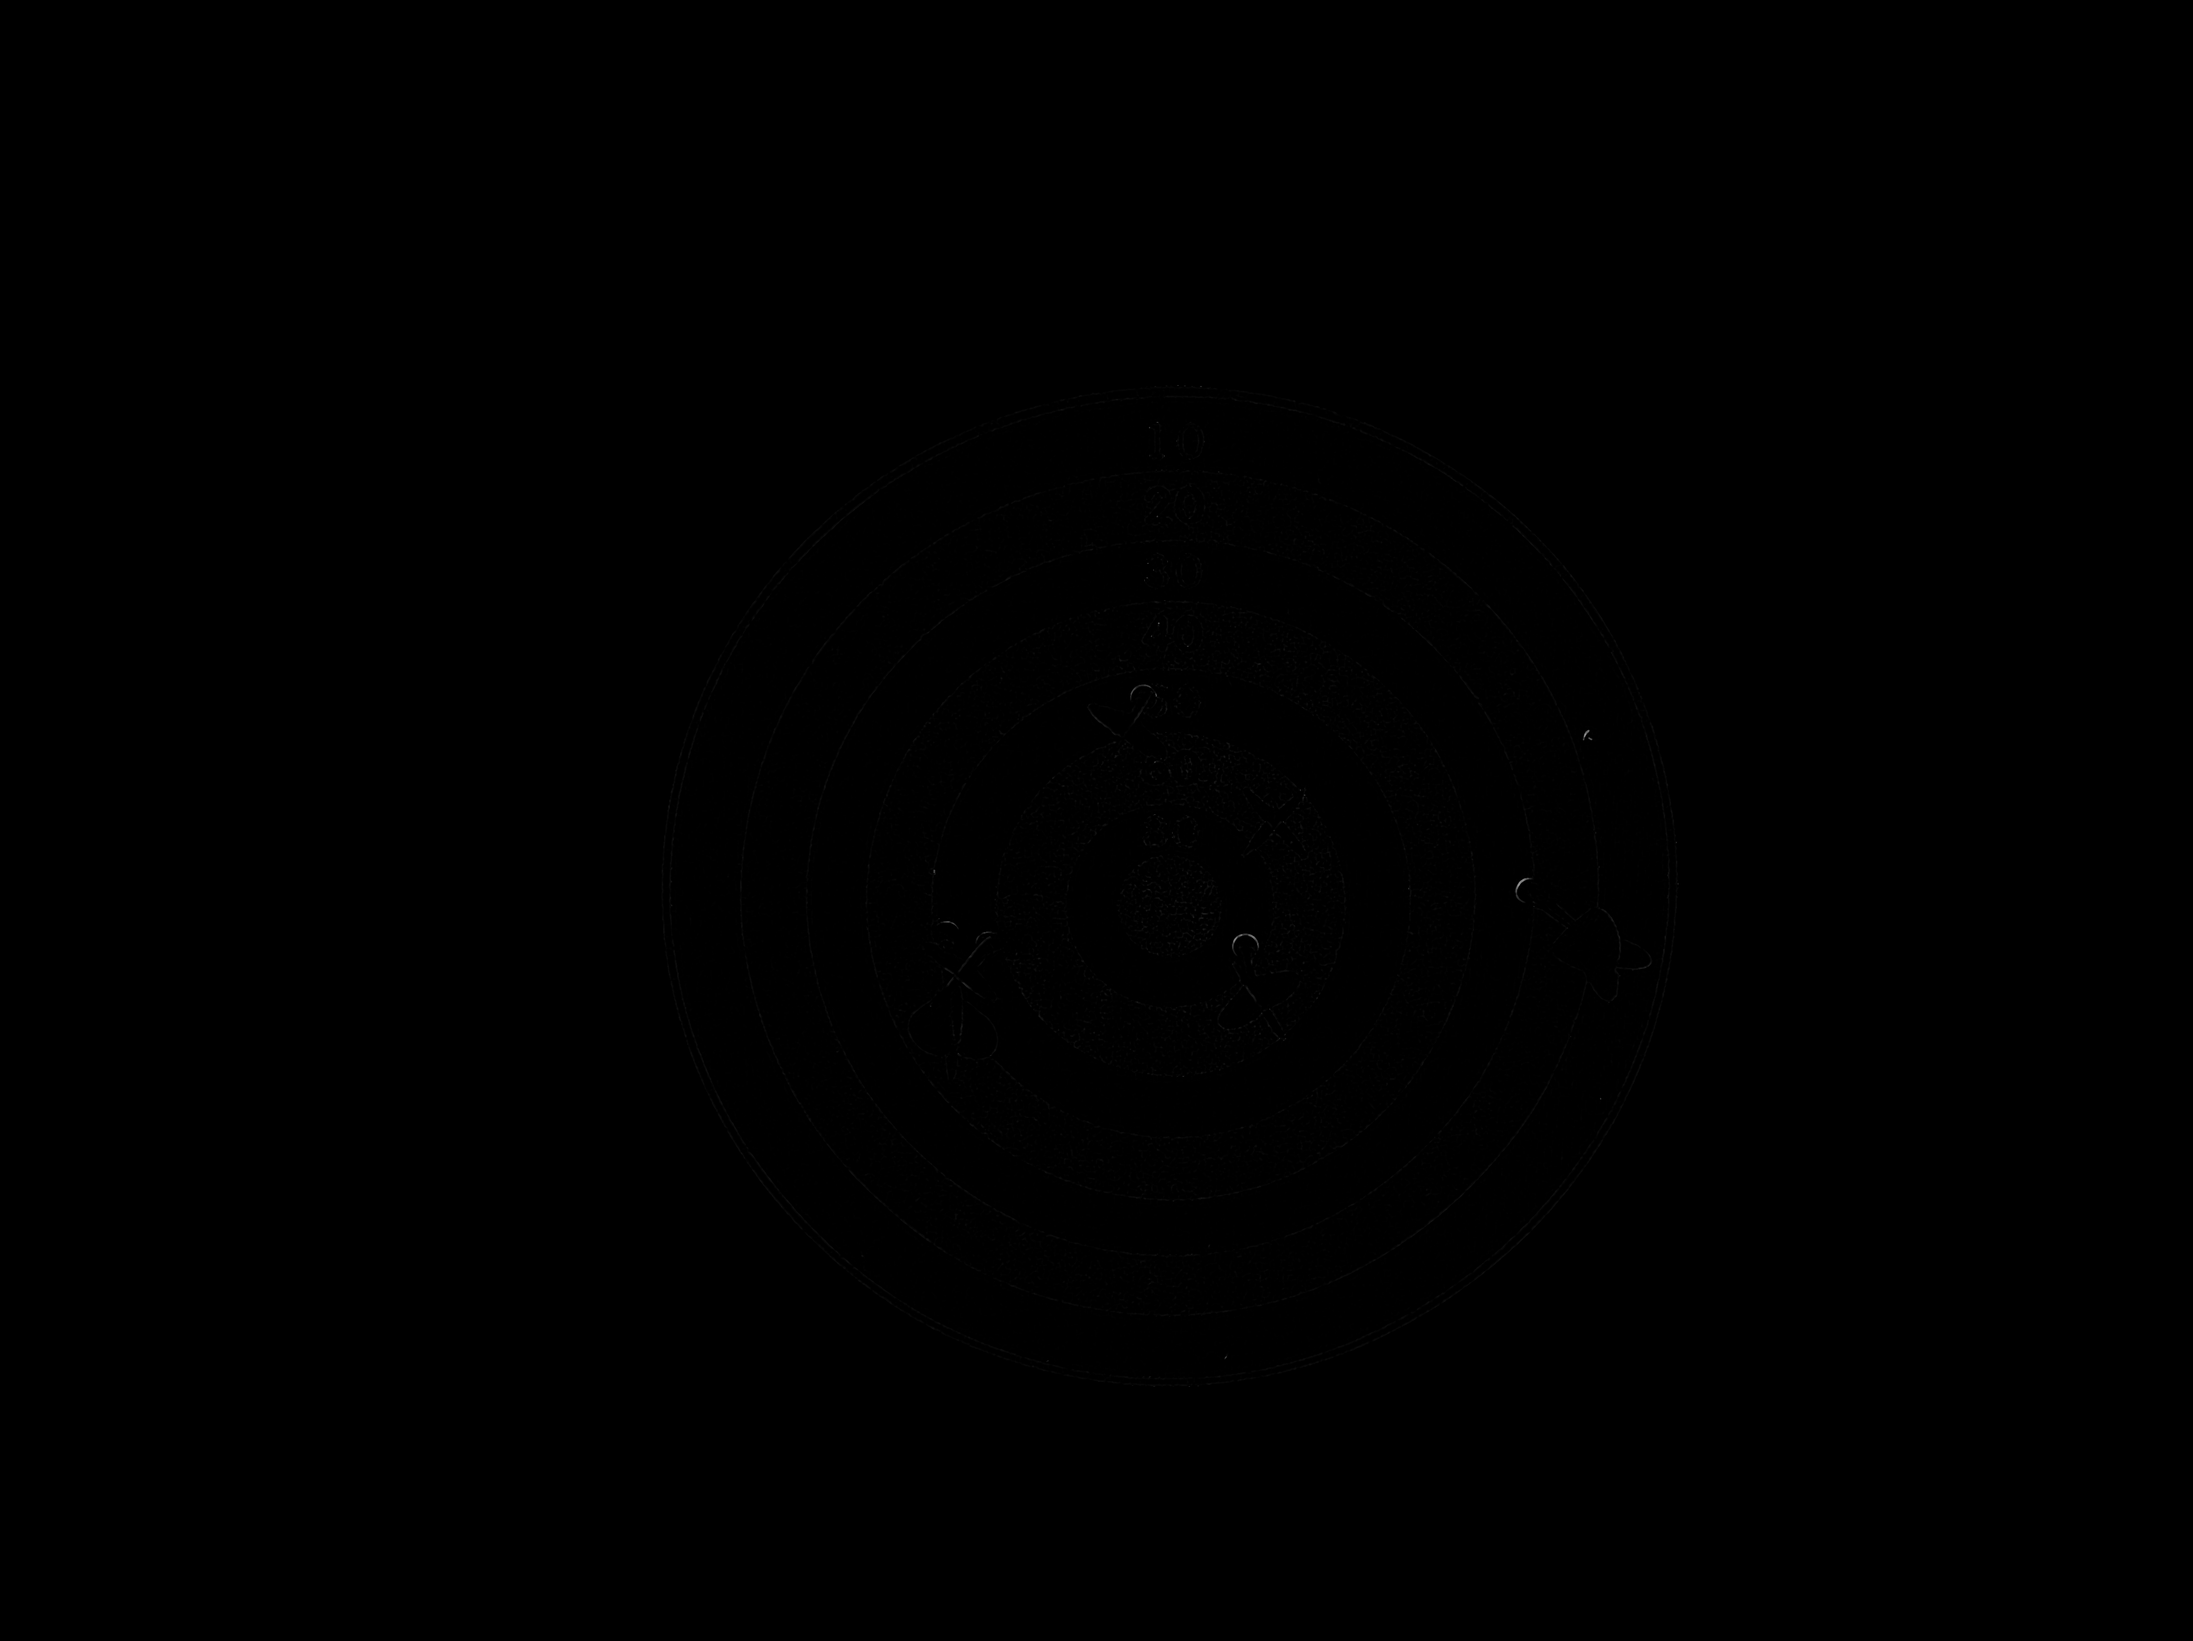
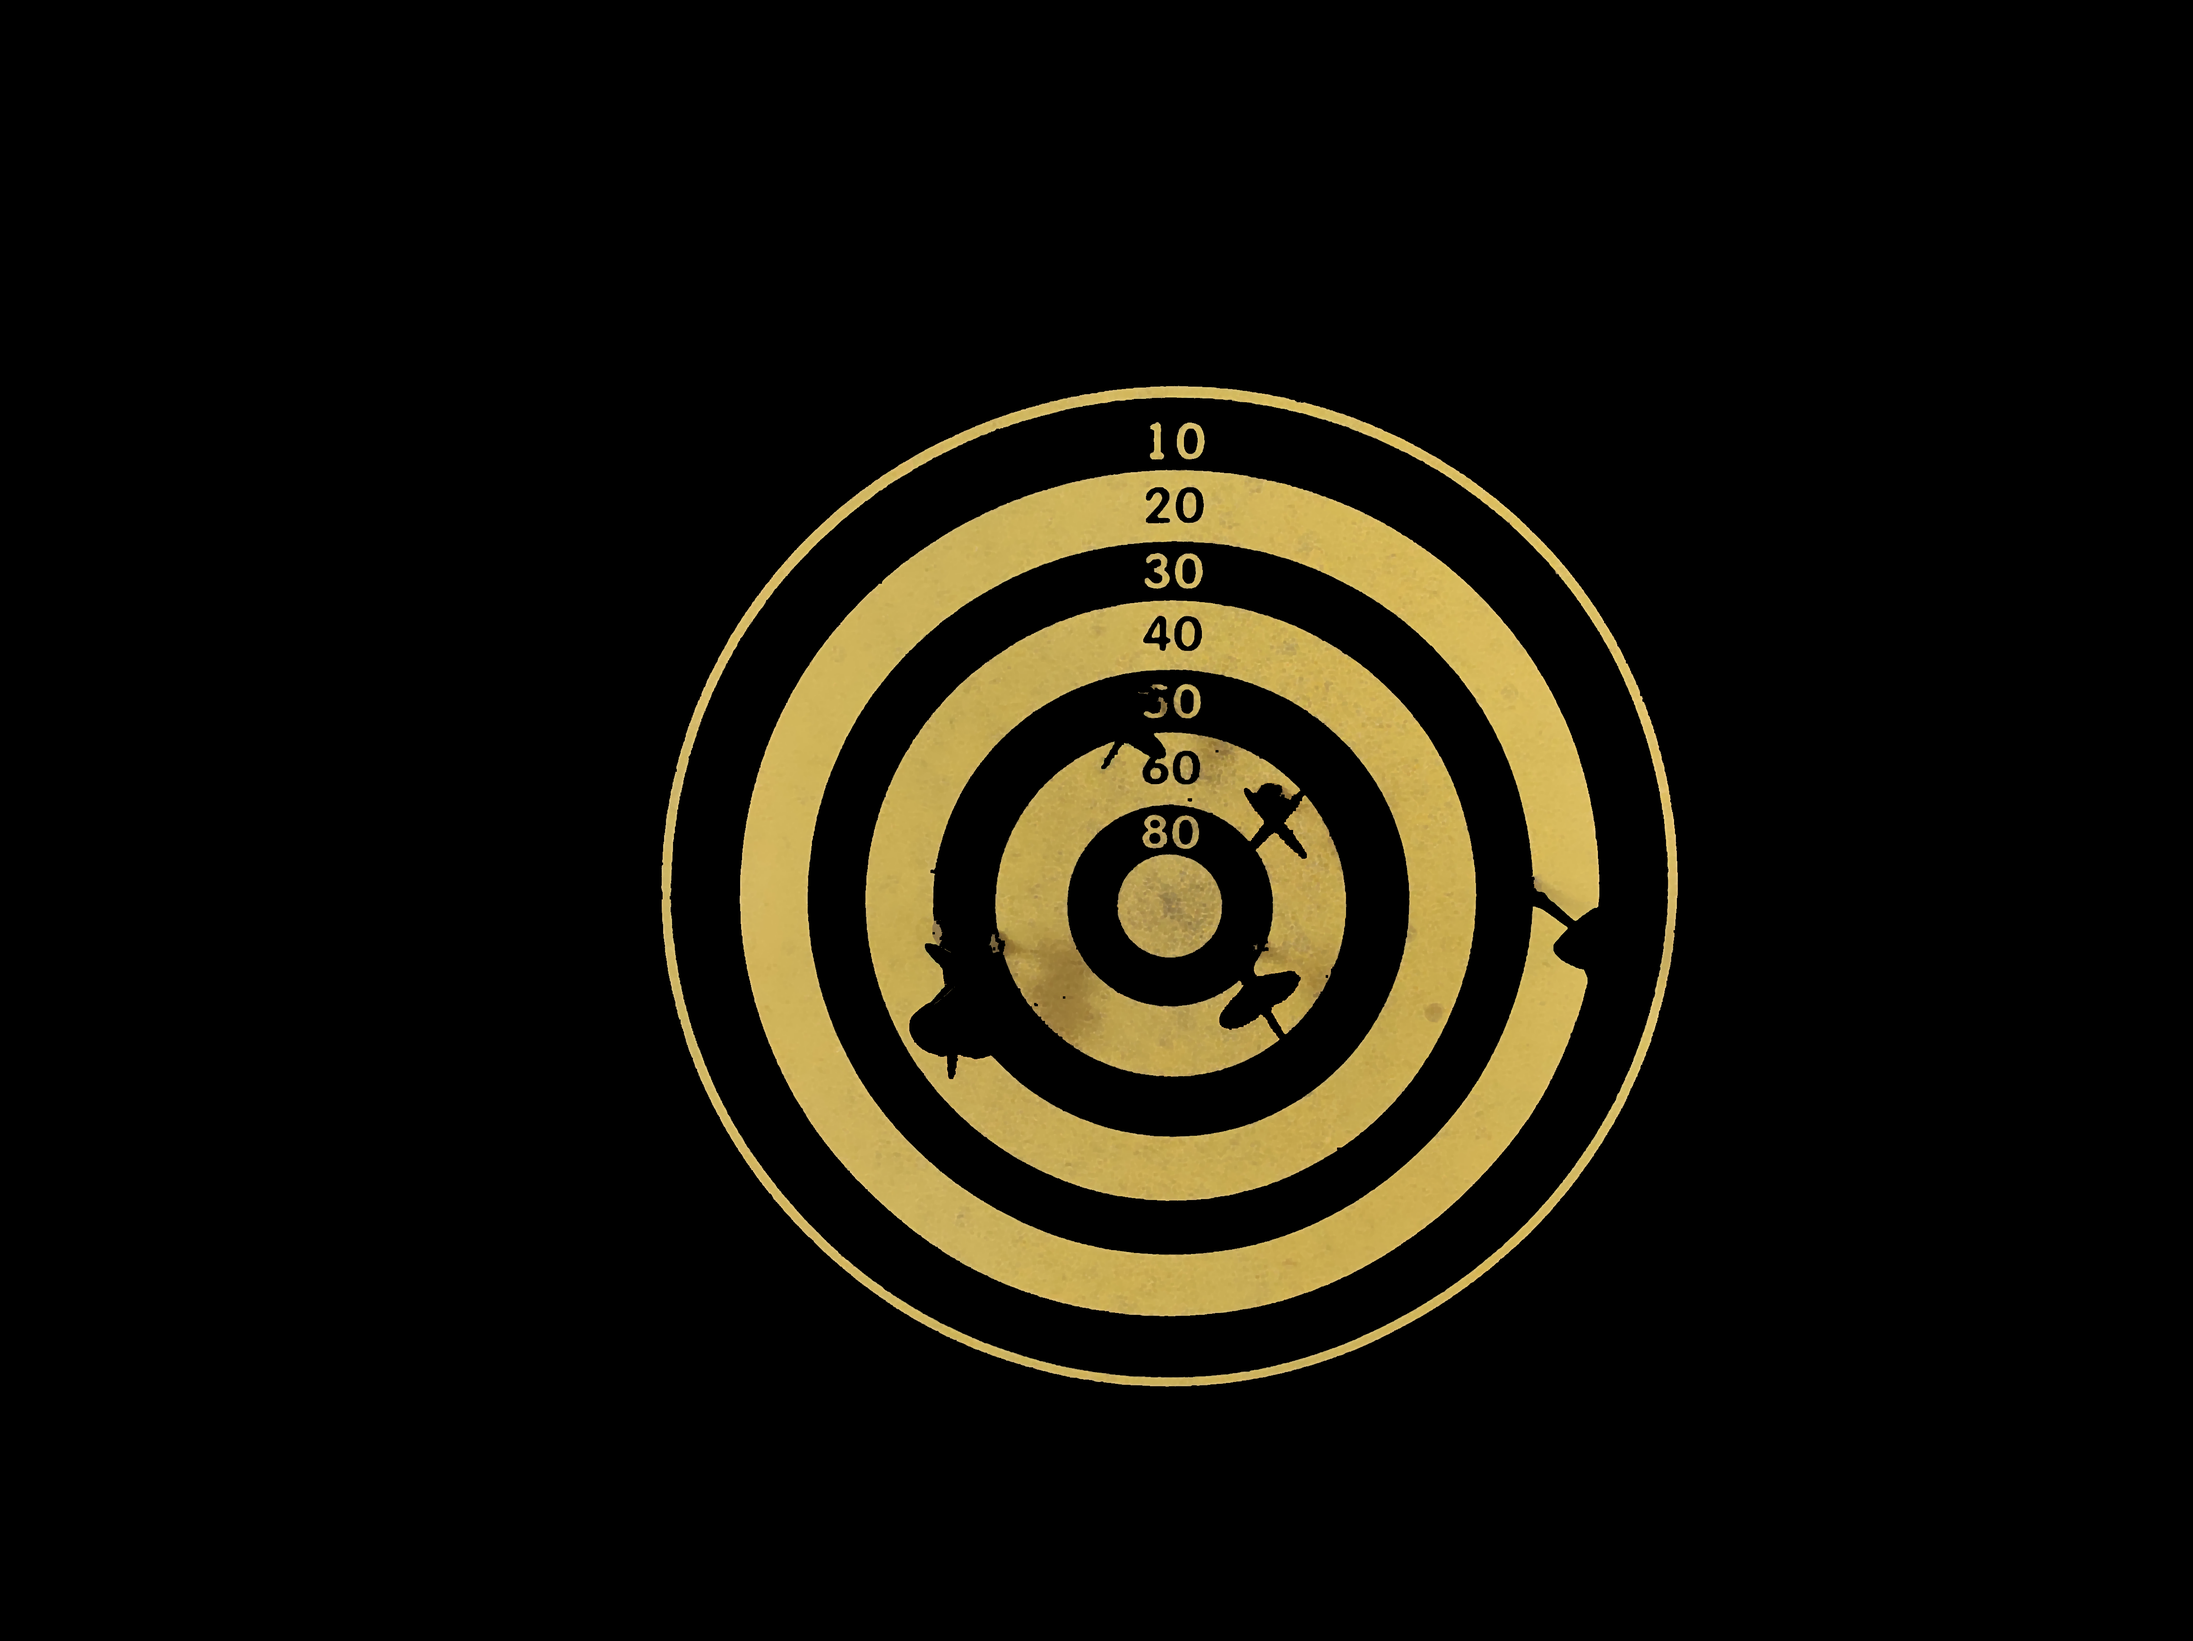
--

Changed region(s): [[0.2812, 0.2177, 0.7812, 0.8399], [0.5, 0.8399, 0.5625, 0.871], [0.6562, 0.28, 0.6875, 0.3111]]

diff --git a/pre_process_image.py b/pre_process_image.py
@@ -4,6 +4,7 @@ import matplotlib.pyplot as plt
 from sklearn.cluster import KMeans
 from Pylette import extract_colors
 from PIL import Image
+from scipy import stats
 
 source_image_path = '/home/nikolay/ML/It_Jim/Darts_game/images/IMG_20240510_172748.jpg'
 image_without_background_path = '/home/nikolay/ML/It_Jim/Darts_game/masked_image.png'
@@ -75,12 +76,16 @@ def define_colors(image, kernel_size, iterations):
         [103, 80, 56]
     ]
     
+    target_rgb = np.uint8([[[87, 77, 56]]])
+    target_hsv = cv2.cvtColor(target_rgb, cv2.COLOR_RGB2HSV)[0][0]
+    
     hsv_colors = [cv2.cvtColor(np.uint8([[color]]), cv2.COLOR_RGB2HSV)[0][0] for color in rgb_colors]
     
     color_ranges = {
             'red': (np.array([0, 70, 50]), np.array([10, 255, 255])),
             'green': (np.array([40, 70, 50]), np.array([80, 255, 255])),
-            'brown': (np.array([10, 100, 50]), np.array([20, 200, 150]))
+            'brown': (np.array([10, 100, 50]), np.array([20, 200, 150])),
+            'target': (np.array([max(0, target_hsv[0] - 10), max(0, target_hsv[1] - 40), max(0, target_hsv[2] - 40)]), np.array([min(179, target_hsv[0] + 10), min(255, target_hsv[1] + 40), min(255, target_hsv[2] + 40)]))
         }
         
     color_masks = find_colors(image, color_ranges)
@@ -88,11 +93,12 @@ def define_colors(image, kernel_size, iterations):
     # Display the masks
     print('Cleaning golden mask')
     for color_name, mask in color_masks.items():
-        if color_name == 'brown':
+        if color_name == 'brown' or color_name == 'target':
             mask = mask_denoiser(mask, iterations, kernel_size)
         cv2.imwrite(f'{color_name}_mask.png', mask)
         
     return color_masks
+
         
 def KNN(pixel, palette):
     distances = np.sqrt(np.sum((pixel - palette)**2, axis=1))
@@ -100,7 +106,7 @@ def KNN(pixel, palette):
     return nearest_color
 
 
-def colorizing_image_in_5_shades(image, palette):
+def colorizing_image_in_10_shades(image, palette):
     image_rgb = cv2.cvtColor(image, cv2.COLOR_BGR2RGB)
     pixels = image_rgb.reshape(-1, 3)
     approximated_pixels = np.array([KNN(pixel, palette) for pixel in pixels], dtype = 'uint8')
@@ -112,25 +118,6 @@ def colorizing_image_in_5_shades(image, palette):
     gold_mask_image = np.zeros_like(image_rgb, dtype = 'uint8')
     gold_mask_image[mask] = gold_shades
     
-    plt.figure(figsize=(15, 5))
-
-    plt.subplot(1, 3, 1)
-    plt.title('Original Image')
-    plt.imshow(image_rgb)
-    plt.axis('off')
-
-    plt.subplot(1, 3, 2)
-    plt.title('Approximated Image')
-    plt.imshow(approximated_image)
-    plt.axis('off')
-
-    plt.subplot(1, 3, 3)
-    plt.title('Gold Masked Image')
-    plt.imshow(gold_mask_image)
-    plt.axis('off')
-
-    plt.show()
-    
     gold_mask_image = cv2.cvtColor(gold_mask_image, cv2.COLOR_RGB2BGR)
     approximated_image = cv2.cvtColor(approximated_image, cv2.COLOR_RGB2BGR)
 
@@ -141,8 +128,21 @@ def colorizing_image_in_5_shades(image, palette):
     return approximated_image, gold_mask_image, mask
 
 
-def find_center_mass(approximated_image, mask, n_clusters = 6):
-    gold_pixels_coordinates = np.argwhere(mask)
+# def find_center_mass(approximated_image, mask, n_clusters = 6):
+#     gold_pixels_coordinates = np.argwhere(mask)
+    
+#     if len(gold_pixels_coordinates) > 0:
+#         kmeans = KMeans(n_clusters=n_clusters, random_state=42).fit(gold_pixels_coordinates)
+#         centroids = kmeans.cluster_centers_
+        
+#         for centroid in centroids:
+#             cv2.circle(approximated_image, (int(centroid[1]), int(centroid[0])), 10, (0, 0, 255), -1)
+#         cv2.imwrite('image_with_centroids.png', approximated_image)
+        
+#         return centroids
+
+def find_center_mass(approximated_image, mask, n_clusters=6):
+    gold_pixels_coordinates = np.argwhere(mask > 0)
     
     if len(gold_pixels_coordinates) > 0:
         kmeans = KMeans(n_clusters=n_clusters, random_state=42).fit(gold_pixels_coordinates)
@@ -150,9 +150,13 @@ def find_center_mass(approximated_image, mask, n_clusters = 6):
         
         for centroid in centroids:
             cv2.circle(approximated_image, (int(centroid[1]), int(centroid[0])), 10, (0, 0, 255), -1)
-        cv2.imwrite('image_with_centroids.png', approximated_image)
+        cv2.imwrite('/mnt/data/image_with_centroids.png', approximated_image)
         
         return centroids
+    else:
+        print("No gold pixels found in the mask.")
+        return None
+    
     
 def mask_denoiser(golden_mask, iterations, kernel_size):
     kernel = np.ones((kernel_size, kernel_size), np.uint8)
@@ -186,6 +190,7 @@ def denoiser(image):
     output_path = 'denoised_image.png'
     cv2.imwrite(output_path, result)
     
+    # cleaned_bgr = replace_outliers_with_mode(result, count_of_neighbors = 5, threshold = 100)
     cleaned_bgr = remove_black_dots(result, kernel_size = 5, iterations = 1)
     cv2.imwrite('cleaned_bgr.png', cleaned_bgr)
     
@@ -215,6 +220,39 @@ def remove_black_dots(image, kernel_size, iterations):
     
     return cleaned_bgr
 
+def find_mode(neighbors):
+    if len(neighbors) == 0:
+        return None
+    neighbors_array = np.array(neighbors)
+    mode_result = stats.mode(neighbors_array, axis=0)
+    mode_color = mode_result.mode[0]
+    count = mode_result.count[0]
+    if np.all(count > 1):
+        return mode_color.astype(int)
+    return None
+
+
+def replace_outliers_with_mode(img, count_of_neighbors=8, threshold=200):
+    output_img = img.copy()
+    rows, cols = img.shape[:2]
+    # Padding the image to avoid boundary issues
+    padded_img = np.pad(img, ((1, 1), (1, 1), (0, 0)), mode='reflect')
+    
+    for y in range(1, rows + 1):
+        for x in range(1, cols + 1):
+            current_pixel = padded_img[y, x][:3]
+            neighbors = padded_img[y-1:y+2, x-1:x+2, :3].reshape(-1, 3)
+            neighbors = np.delete(neighbors, 4, axis=0)  # Remove the center pixel
+            diff = np.mean(np.abs(neighbors - current_pixel), axis=1)
+            flag = np.sum(diff > threshold)
+            if flag >= count_of_neighbors:
+                mode_color = find_mode(neighbors)
+                if mode_color is not None:
+                    output_img[y-1, x-1][:3] = mode_color  # Adjust indices due to padding
+    
+    return output_img
+
+
 if __name__ == '__main__':
     image_source, gray_source, blurred_source, edges_source = pre_process_image(source_image_path)
     contours_source, _ = cv2.findContours(edges_source, cv2.RETR_TREE, cv2.CHAIN_APPROX_SIMPLE)
@@ -243,32 +281,30 @@ if __name__ == '__main__':
     
     # Extracting colors
     # TODO Denoiser
-    filtered_image = denoiser(new_image)
+    # filtered_image = denoiser(new_image)
     
     # Create masks for each color
     color_masks = define_colors(new_image, kernel_size = 5, iterations = 1)
     print('Masks ready !!!')
     
     for color_name, mask in color_masks.items():
-        if color_name == 'brown':
-            brown_mask = mask
+        if color_name == 'target':
+            target_mask = mask
         if color_name == 'red':
             red_mask = mask
         if color_name == 'green':
             green_mask = mask
-            
     
-    
-    palette = extract_colors(image=image_without_background_path, palette_size=5, resize = True)
+    palette = extract_colors(image=image_without_background_path, palette_size=10, resize = True)
     palette.display(save_to_file=False)
     main_colors = [color.rgb for color in palette]
     
-    main_colors = [[*color] for color in main_colors]
-    print(main_colors)
-    approximated_image, gold_mask_image, mask = colorizing_image_in_5_shades(filtered_image, main_colors)
+    # main_colors = [[*color] for color in main_colors]
+    # print(main_colors)
+    # approximated_image, gold_mask_image, mask = colorizing_image_in_10_shades(new_image, main_colors)
     
-    # centroids = find_center_mass(approximated_image, mask)
-    # print(f'Centroids: {centroids}')
+    centroids = find_center_mass(new_image, target_mask)
+    print(f'Centroids: {centroids}')
     
     
     # # Save the result

diff --git a/test.py b/test.py
@@ -2,7 +2,7 @@ import cv2
 import numpy as np
 import matplotlib.pyplot as plt
 
-source_image_path = '/home/nikolay/It_Jim/darts_game/IMG_20240510_172748.jpg'
+source_image_path = '/home/nikolay/ML/It_Jim/Darts_game/images/IMG_20240510_172930.jpg'
 image_without_background_path = '/home/nikolay/It_Jim/darts_game/masked_image.png'
 
 def find_largest_contour(contours):
